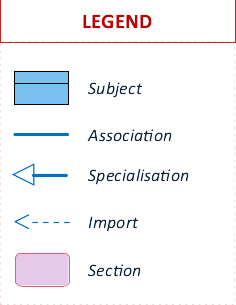
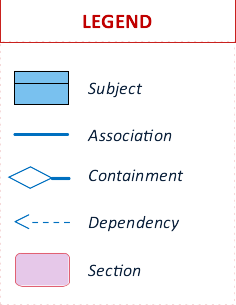
Process comments Twan dd 25022023; Add argument and consequence to DP8 BusConvProtocol; change Fig.1 Legend; change Fig.3 and caption in accordance to discussion Twan/Marten Add (but don't use) Figure about Detail in SoAs - more appropriate for Paper 1.

diff --git a/src/docs/TableDesignPrinciples.tex b/src/docs/TableDesignPrinciples.tex
@@ -245,7 +245,7 @@
 %% BUSINESS CONVERSATION PROTOCOL PRINCIPLE
 %%
 \begin{mmdp}\label{dp:bcpp}{\bfseries Business conversation protocol principle:}
-\quad When it is reasonable to expect that the software agent will be engaged in collaboration or otherwise will interoperate with (an)other software agent(s), the agent should provide the capability to respond to a pragmatic protocol that has the objective to jointly achieve an intermediate business state by conversing with participating agents about how individual stakeholder's SoAs contribute to the shared business state.
+\quad When it is reasonable to expect that the software agent will be engaged in collaboration or otherwise will interoperate with (an)other software agent(s), the agent should provide the capability to engage in a business conversation with participating agents, with the objective to jointly achieve a business state that is considered a(n intermediate) necessary step towards the shared business goal.
 \end{mmdp}
 &
 \begin{description}[labelwidth=3.7cm,leftmargin=3.7cm+1ex,nosep,topsep=2ex,labelsep=1ex,font=\bfseries]
@@ -253,16 +253,21 @@
   \item[Quality attributes:] Semantics, interoperability;
 \end{description} \\
 \begin{enumerate}[left=6pt, nosep]
-  \item ;
-  \item ;
-  \item ;
-  \item .
+  \item Business collaboration is by definition a matter of separate contributions from individual stakeholders to the desired outcome of the business collaboration;
+  \item The distinction between the collaborating agents is defined by what they can contribute to the collaboration, i.e., the internal SoA that they produce on behalf of their stakeholder;
+  \item In order to achieve a joint result between collaborating agents, coordination between their achievement behaviour is required;
+  \item Such coordination is achieved by a protocol, allowing collaborating agents to exchange demands about SoAs  that are required to produce by other agents in order to achieve a joint business state:
+  \begin{enumerate}
+    \item A stakeholder-internal SoA might be achievable only in dependency on one or more SoAs from one or more collaborating stakeholders, and/or
+    \item A joint business state necessarily collects stakeholder-internal SoAs that are produced by distinct software agents.
+  \end{enumerate}
 \end{enumerate}
 &
 \begin{enumerate}[left=10pt, nosep]
-  \item ;
-  \item ;
-  \item .
+  \item Providing the availability of a business conversation protocol, each individual agent is capable of initiating a business conversation that it deems necessary for achieving its own responsibility in the collaboration;
+  \item Such business conversation protocol can rely on coordination and directions only, i.e., following a business choreography or business orchestration process, or a combination of both;
+  \item This implies that business conversation protocol will converse \emph{about} the SoAs that are subject of such coordination, introducing the pragmatic (business) dimension as meta-level to the semantic dimension of the SoAs;
+  \item This not only improves loose coupling between interoperating agents that act on behalf of stakeholders in their business collaboration, but consolidates a clear separation with the semantic meaning that is exchanged by the business conversation protocol.
 \end{enumerate} \\
 %
 %
@@ -333,26 +338,26 @@
 %%
 %% SEMANTIC PROFILES PRINCIPLE
 %%
-\begin{mmdp}\label{dp:sprof}{\bfseries Semantic profiles principle:}
-\quad Apply different semantic profiles for different collaborations. \end{mmdp}
-&
-\begin{description}[labelwidth=3.7cm,leftmargin=3.7cm+1ex,nosep,topsep=2ex,labelsep=1ex,font=\bfseries]
-\item[Type of information:] Data, Technology;
-\item[Quality attributes:] semantic interoperability, portability, maintainability, efficiency, usability (reuse), reliability;
-\end{description}
-\\
-\begin{enumerate}[left=6pt, nosep]
-  \item ;
-  \item ;
-  \item .
-\end{enumerate}
-&
-\begin{enumerate}[left=10pt, nosep]
-  \item ;
-  \item ;
-  \item ;
-  \item .
-\end{enumerate} \\
+%\begin{mmdp}\label{dp:sprof}{\bfseries Semantic profiles principle:}
+%\quad Apply different semantic profiles for different collaborations. \end{mmdp}
+%&
+%\begin{description}[labelwidth=3.7cm,leftmargin=3.7cm+1ex,nosep,topsep=2ex,labelsep=1ex,font=\bfseries]
+%\item[Type of information:] Data, Technology;
+%\item[Quality attributes:] semantic interoperability, portability, maintainability, efficiency, usability (reuse), reliability;
+%\end{description}
+%\\
+%\begin{enumerate}[left=6pt, nosep]
+%  \item ;
+%  \item ;
+%  \item .
+%\end{enumerate}
+%&
+%\begin{enumerate}[left=10pt, nosep]
+%  \item ;
+%  \item ;
+%  \item ;
+%  \item .
+%\end{enumerate} \\
 %
 %
 %
